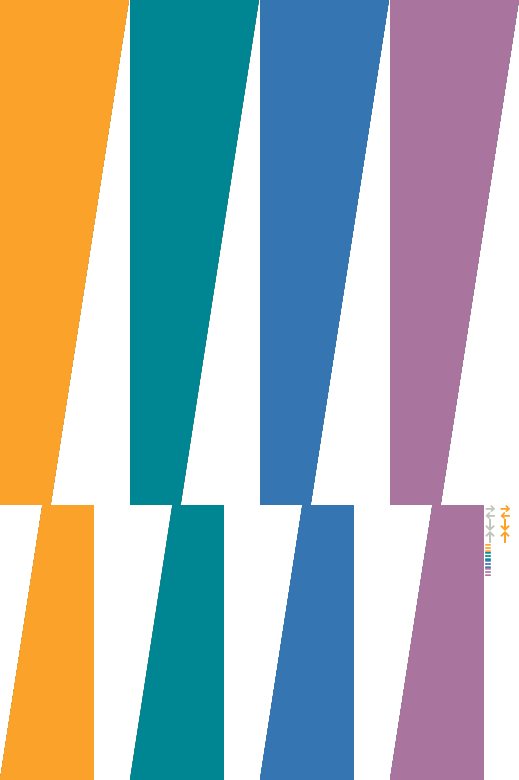
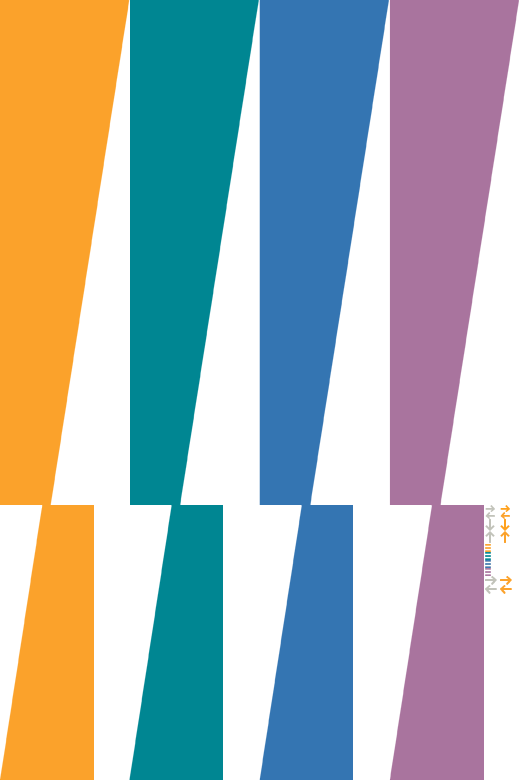
Fixed slider buttons

Changed region(s): [[0.9249, 0.7385, 0.9865, 0.7692], [0.4933, 0.0, 0.5241, 0.0308]]

diff --git a/sass/page_elements/_slider.scss b/sass/page_elements/_slider.scss
@@ -39,32 +39,32 @@
 			}
 			&:before {
 				display: block;
-				width: $sprite_arrow_width;
-				height: $sprite_arrow_lr_height;
+				width: $sprite_arrow_big_width;
+				height: $sprite_arrow_big_height;
 				background-image: url('/img/statics.png');
-				margin-top: ($opener-size - $sprite_arrow_lr_height) / 2;
+				margin-top: ($opener-size - $sprite_arrow_big_height) / 2;
 			}
 		}
 		.next {
 			border-right-width: $slider_arrow_border;
 			float: right;
 			&:before {
-				background-position: -1*$sprite_arrow_normal_position_x -1*$sprite_arrow_right;
+				background-position: -1*$sprite_arrow_normal_position_x -1*$sprite_arrow_big_right;
 				content: ''
 			}
 			&:hover:before {
-				background-position: -1*$sprite_arrow_active_position_x -1*$sprite_arrow_right;
+				background-position: -1*$sprite_arrow_active_position_x -1*$sprite_arrow_big_right;
 			}
 		}
 		.prev {
 			border-left-width: $slider_arrow_border;
 			float: left;
 			&:before {
-				background-position: -1*$sprite_arrow_normal_position_x -1*$sprite_arrow_left;
+				background-position: -1*$sprite_arrow_normal_position_x -1*$sprite_arrow_big_left;
 				content: ''
 			}
 			&:hover:before {
-				background-position: -1*$sprite_arrow_active_position_x -1*$sprite_arrow_left;
+				background-position: -1*$sprite_arrow_active_position_x -1*$sprite_arrow_big_left;
 			}
 		}
 		.page {

diff --git a/css/screen.css b/css/screen.css
@@ -545,10 +545,10 @@ article.link:after {
 /* line 40, ../sass/page_elements/_slider.scss */
 .slider nav .next:before, .slider nav .prev:before {
   display: block;
-  width: 10px;
-  height: 7px;
+  width: 12px;
+  height: 9px;
   background-image: url("/img/statics.png");
-  margin-top: 4.5px;
+  margin-top: 3.5px;
 }
 /* line 48, ../sass/page_elements/_slider.scss */
 .slider nav .next {
@@ -557,12 +557,12 @@ article.link:after {
 }
 /* line 51, ../sass/page_elements/_slider.scss */
 .slider nav .next:before {
-  background-position: -485px -505px;
+  background-position: -485px -576px;
   content: '';
 }
 /* line 55, ../sass/page_elements/_slider.scss */
 .slider nav .next:hover:before {
-  background-position: -500px -505px;
+  background-position: -500px -576px;
 }
 /* line 59, ../sass/page_elements/_slider.scss */
 .slider nav .prev {
@@ -571,12 +571,12 @@ article.link:after {
 }
 /* line 62, ../sass/page_elements/_slider.scss */
 .slider nav .prev:before {
-  background-position: -485px -512px;
+  background-position: -485px -585px;
   content: '';
 }
 /* line 66, ../sass/page_elements/_slider.scss */
 .slider nav .prev:hover:before {
-  background-position: -500px -512px;
+  background-position: -500px -585px;
 }
 /* line 70, ../sass/page_elements/_slider.scss */
 .slider nav .page {

diff --git a/sass/_config.scss b/sass/_config.scss
@@ -36,6 +36,10 @@ $sprite_arrow_ud_width: $sprite_arrow_width;
 $sprite_arrow_ud_height: $sprite_arrow_up - $sprite_arrow_down;
 $sprite_arrow_lr_height: $sprite_arrow_left - $sprite_arrow_right;
 $sprite_arrow_lr_width: $sprite_arrow_width;
+$sprite_arrow_big_right: 576px;
+$sprite_arrow_big_left: 585px;
+$sprite_arrow_big_width: 12px;
+$sprite_arrow_big_height: 9px;
 $sprite_logo_x: 485px;
 $sprite_logo_orange: 544px;
 $sprite_logo_turquoise: 552px;
